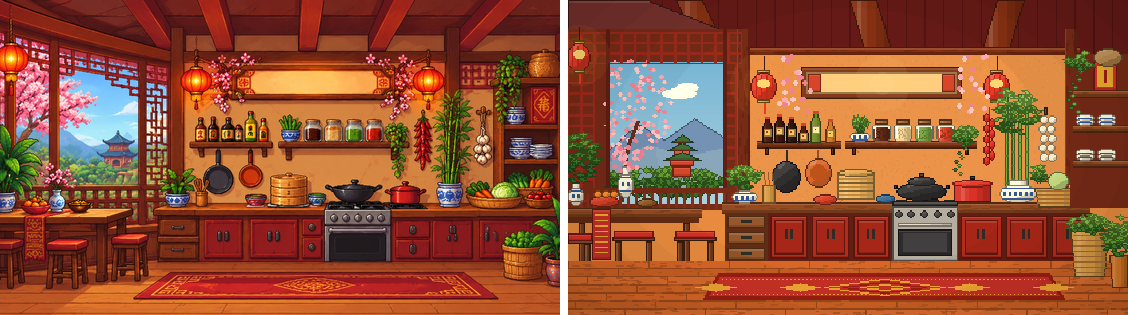
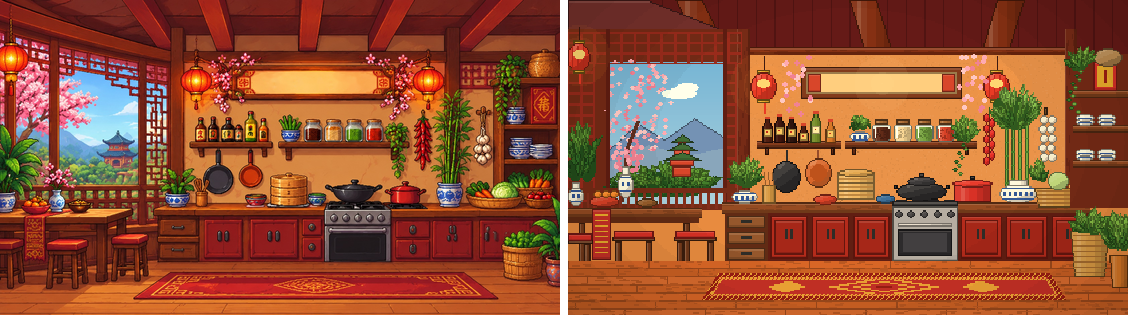
WIP kitchens: rug patterns stay on the rug, plants with leaf shapes; follow-ups for the next session in the planner
- concept_kitchens.py: rugs computed inside the rug's outline (no pattern on the floor); plants as a shaded mass
  with leaf shapes and midribs
- drafts/concept-kitchens/wip/: the next plant and rug version (fan of arching leaves, patterned field), not applied
- docs/plans/README.md: the bug report's four fixes awaiting a choice; the agreed per-object tracing approach

diff --git a/design/pixel-art/concept_kitchens.py b/design/pixel-art/concept_kitchens.py
@@ -77,32 +77,37 @@ def planks(a: Art, x0: int, y0: int, x1: int, y1: int, base: str, horizontal: bo
 
 def rug(a: Art, top: tuple[int, int], bottom: tuple[int, int], y0: int, y1: int, base: str, border: str, motif: str,
         fringe: bool = False) -> None:
-    """A floor rug in perspective (narrower at the back), with a border band and a diamond medallion."""
+    """A floor rug in perspective (narrower at the back). Every pixel is worked out from where it sits inside the rug
+    (u across, v down, both 0 to 1), so the pattern always stays on the rug and scales with it: a border band with a
+    zigzag, a thin inner line, a nested diamond medallion and a smaller diamond on each side."""
     def edge(y: int) -> tuple[int, int]:
-        t = (y - y0) / max(1, y1 - y0)
+        t = (y - y0) / max(1, y1 - y0 - 1)
         return round(top[0] + (bottom[0] - top[0]) * t), round(top[1] + (bottom[1] - top[1]) * t)
+    height = y1 - y0
     for y in range(y0, y1):
         lx, rx = edge(y)
-        a.box(lx, y, rx - lx, 1, base)
-        a.box(lx, y, 3, 1, border)
-        a.box(rx - 3, y, 3, 1, border)
-    for y in (y0, y0 + 1, y0 + 2, y1 - 3, y1 - 2, y1 - 1):
-        lx, rx = edge(y)
-        a.box(lx, y, rx - lx, 1, border)
-    for y in (y0 + 4, y1 - 5):                                       # a thin inner line with a dotted pattern
-        lx, rx = edge(y)
-        for x in range(lx + 5, rx - 5, 3):
-            a.put(x, y, motif)
-    cx, cy = (top[0] + top[1] + bottom[0] + bottom[1]) // 4, (y0 + y1) // 2
-    hw, hh = (bottom[1] - bottom[0]) // 6, (y1 - y0) // 2 - 4
-    for k, scale in enumerate((1.0, 0.7, 0.4)):
-        pts = [(cx, cy - int(hh * scale)), (cx + int(hw * scale), cy), (cx, cy + int(hh * scale)), (cx - int(hw * scale), cy)]
-        a.shape(lambda d, pts=pts: d.polygon(pts, outline=255), motif if k != 1 else border, "plain", 0)
-    for sx in (-1, 1):                                                # side diamonds
-        for k in range(1, 3):
-            dx = cx + sx * k * hw * 1.4
-            pts = [(dx, cy - hh // 2), (dx + hw // 3, cy), (dx, cy + hh // 2), (dx - hw // 3, cy)]
-            a.shape(lambda d, pts=pts: d.polygon(pts, fill=255), motif, "plain", 0)
+        width = rx - lx
+        v = (y - y0) / max(1, height - 1)
+        for x in range(lx, rx):
+            u = (x - lx) / max(1, width - 1)
+            bu, bv = 4 / max(1, width), 3 / max(1, height)            # the border is 4 px wide at the sides, 3 at the ends
+            col = base
+            if u < bu or u > 1 - bu or v < bv or v > 1 - bv:
+                col = border
+                along = x if (v < bv or v > 1 - bv) else y        # a zigzag running along the border
+                if (along + (y if v < bv or v > 1 - bv else x)) % 4 == 0:
+                    col = motif
+            elif u < bu + 2 / width or u > 1 - bu - 2 / width or v < bv + 2 / height or v > 1 - bv - 2 / height:
+                col = motif if (x + y) % 3 else base                # the dotted inner line
+            else:
+                du, dv = abs(u - 0.5) / 0.17, abs(v - 0.5) / 0.36    # the medallion: three nested diamond rings
+                ring = du + dv
+                if ring < 1:
+                    col = motif if ring > 0.82 or 0.45 < ring < 0.6 else border if ring < 0.2 else base
+                for side in (0.22, 0.78):                            # side diamonds
+                    if abs(u - side) / 0.06 + abs(v - 0.5) / 0.24 < 1:
+                        col = motif
+            a.put(x, y, col)
     if fringe:
         for y in (y0 - 1, y1):
             lx, rx = edge(min(max(y, y0), y1 - 1))
@@ -112,16 +117,35 @@ def rug(a: Art, top: tuple[int, int], bottom: tuple[int, int], y0: int, y1: int,
 
 def leaves(a: Art, cx: int, cy: int, w: int, h: int, greens: tuple[str, ...] = ("#3F7A2E", "#5E9B3A", "#7DB84A"),
            count: int = 40, leaf: tuple[int, int] = (7, 4)) -> None:
-    """A leafy bush: many small pointed leaves at random angles, darker below and lighter on top."""
-    for _ in range(int(count * 1.8)):
+    """A leafy plant: a dark mass for depth, then real leaf shapes pointing outward from the stem, each with a
+    midrib, drawn from the back (darker, lower) to the front (lighter, on top), so it reads as foliage."""
+    dark = tone(greens[0], 0.72)
+    for _ in range(5):                                                # the shaded mass behind the leaves
+        mw, mh = int(w * a.rand.uniform(0.45, 0.7)), int(h * a.rand.uniform(0.45, 0.7))
+        mx = cx + a.rand.randint(-w // 5, w // 5) - mw // 2
+        my = cy + a.rand.randint(-h // 6, h // 4) - mh // 2
+        a.ellipse(mx, my, mw, mh, dark, "plain", 0)
+    stem = (cx, cy + h * 0.45)
+    items = []
+    for _ in range(int(count * 1.4)):
         ang = a.rand.uniform(0, math.pi * 2)
-        rr = a.rand.random() ** 0.6
-        x, y = cx + math.cos(ang) * w / 2 * rr, cy + math.sin(ang) * h / 2 * rr
-        shade = greens[0] if y > cy + h / 6 else greens[-1] if y < cy - h / 6 else greens[len(greens) // 2]
-        lw, lh = leaf
-        tilt = a.rand.uniform(-1, 1)
-        pts = [(x - lw / 2, y + tilt * 2), (x, y - lh / 2), (x + lw / 2, y - tilt * 2), (x, y + lh / 2)]
-        a.shape(lambda d, pts=pts: d.polygon(pts, fill=255), shade, "plain", 0.62)
+        rr = a.rand.random() ** 0.5
+        x, y = cx + math.cos(ang) * w / 2 * rr * 0.8, cy + math.sin(ang) * h / 2 * rr * 0.8
+        dx, dy = x - stem[0], y - stem[1]
+        norm = math.hypot(dx, dy) or 1
+        dx, dy = dx / norm, dy / norm
+        length = leaf[0] * a.rand.uniform(0.8, 1.3)
+        width = leaf[1] * a.rand.uniform(0.8, 1.2)
+        items.append((y, (x, y), (x + dx * length, y + dy * length), (-dy, dx), width))
+    for y, base, tip, (px, py), width in sorted(items, key=lambda item: -item[0]):   # back (low) first, top last
+        t = (y - (cy - h / 2)) / max(1, h)
+        shade = greens[0] if t > 0.62 else greens[1] if t > 0.32 else greens[-1]
+        if a.rand.random() < 0.25:
+            shade = greens[min(len(greens) - 1, greens.index(shade) + 1)]
+        mid = ((base[0] + tip[0]) / 2, (base[1] + tip[1]) / 2)
+        pts = [base, (mid[0] + px * width / 2, mid[1] + py * width / 2), tip, (mid[0] - px * width / 2, mid[1] - py * width / 2)]
+        a.shape(lambda d, pts=pts: d.polygon(pts, fill=255), shade, "plain", 0.55)
+        a.line([(round(base[0]), round(base[1])), (round(tip[0]), round(tip[1]))], tone(shade, 0.78))
 
 
 def vine(a: Art, x: int, y: int, length: int, sway: float = 3, greens: tuple[str, str] = ("#3F7A2E", "#6FA846")) -> None:

diff --git a/design/pixel-art/drafts/concept-kitchens/wip/rug_plant_fix2.py b/design/pixel-art/drafts/concept-kitchens/wip/rug_plant_fix2.py
@@ -1,0 +1,107 @@
+from pathlib import Path
+
+p = Path("design/pixel-art/concept_kitchens.py")
+s = p.read_text(encoding="utf-8")
+start = s.index("def rug(a: Art, top: tuple[int, int], bottom: tuple[int, int]")
+end = s.index("def vine(a: Art, x: int, y: int, length: int")
+new = '''def rug(a: Art, top: tuple[int, int], bottom: tuple[int, int], y0: int, y1: int, base: str, border: str, motif: str,
+        fringe: bool = False, accent: str | None = None) -> None:
+    """A floor rug in perspective (narrower at the back). Every pixel is worked out from where it sits inside the rug
+    (u across, v down, both 0 to 1), so the pattern always stays on the rug and scales with it: a double border with a
+    running pattern, a field of small repeating diamonds, a nested medallion, and a diamond on each side."""
+    accent = accent or border
+    def edge(y: int) -> tuple[int, int]:
+        t = (y - y0) / max(1, y1 - y0 - 1)
+        return round(top[0] + (bottom[0] - top[0]) * t), round(top[1] + (bottom[1] - top[1]) * t)
+    height = y1 - y0
+    for y in range(y0, y1):
+        lx, rx = edge(y)
+        width = rx - lx
+        v = (y - y0) / max(1, height - 1)
+        for x in range(lx, rx):
+            u = (x - lx) / max(1, width - 1)
+            pu, pv = (x - lx), (y - y0)                                # rug-local pixels, for repeating patterns
+            in_u, in_v = min(pu, width - 1 - pu), min(pv, height - 1 - pv)   # distance to the rug's edges
+            ring = min(in_u, in_v * 1.4)
+            if ring < 2:
+                col = border
+            elif ring < 4:
+                col = motif if (pu + pv) % 4 < 2 else accent            # the running pattern in the border
+            elif ring < 5:
+                col = border
+            else:
+                col = base
+                if (pu % 8 + pv % 6 * 1.3) < 2.5 or (abs(pu % 8 - 4) + abs(pv % 6 - 3) * 1.3) < 1.6:
+                    col = tone(base, 0.82)                             # a field of small diamonds
+                du, dv = abs(u - 0.5) / 0.18, abs(v - 0.5) / 0.38
+                d = du + dv
+                if d < 1:                                              # the medallion: nested diamonds
+                    col = motif if d > 0.8 else accent if d > 0.62 else base if d > 0.42 else motif if d > 0.24 else border
+                for side in (0.2, 0.8):
+                    ds = abs(u - side) / 0.07 + abs(v - 0.5) / 0.3
+                    if ds < 1:
+                        col = accent if ds < 0.5 else motif
+            a.put(x, y, col)
+    if fringe:
+        for y in (y0 - 1, y1):
+            lx, rx = edge(min(max(y, y0), y1 - 1))
+            for x in range(lx, rx, 2):
+                a.put(x, y, "#F1E6CF")
+
+
+def leaves(a: Art, cx: int, cy: int, w: int, h: int, greens: tuple[str, ...] = ("#3F7A2E", "#5E9B3A", "#7DB84A"),
+           count: int = 40, leaf: tuple[int, int] = (7, 4)) -> None:
+    """Foliage. A wide, low area (trees seen through a window, a hedge) becomes rounded, shaded clumps; anything else
+    becomes a potted plant: a fan of long arching leaves from the stem, each widest a third of the way out, with a
+    vein, lighter on the upper side and drooping at the sides, as in the concept art."""
+    if w > 2.2 * h:                                                   # canopy: rounded clumps, back row first
+        for row in range(3):
+            for k in range(max(2, w // 8)):
+                bw = a.rand.randint(8, 14)
+                bx = cx - w // 2 + a.rand.randrange(max(1, w - bw))
+                by = cy - h // 2 + row * h // 3
+                a.ellipse(bx, by, bw, max(6, h // 2), greens[min(len(greens) - 1, row)], "sphere", 0.55)
+        return
+    stem = (cx, cy + h * 0.45)
+    reach = max(w, h) * 0.6
+    n = max(5, min(16, count // 3))
+    for k in range(n):
+        side = -1 if k % 2 else 1
+        spread = (k // 2) / max(1, n // 2)                          # 0 = upright, 1 = out to the side
+        ang = math.radians(90 + side * (10 + 75 * spread) + a.rand.uniform(-8, 8))
+        length = reach * a.rand.uniform(0.75, 1.05) * (1.0 - 0.15 * spread)
+        width = max(2.5, leaf[1] * 0.9 + reach * 0.09)
+        droop = 0.25 + 0.6 * spread
+        pts_l, pts_r, spine = [], [], []
+        for j in range(9):
+            t = j / 8
+            x = stem[0] + math.cos(ang) * length * t
+            y = stem[1] - math.sin(ang) * length * t + droop * length * t * t   # the leaf arches over
+            spine.append((x, y))
+        for j, (x, y) in enumerate(spine):
+            t = j / 8
+            half = width * (t / 0.35 if t < 0.35 else (1 - t) / 0.65) / 2
+            if j < 8:
+                nx, ny = spine[j + 1][0] - x, spine[j + 1][1] - y
+            else:
+                nx, ny = x - spine[j - 1][0], y - spine[j - 1][1]
+            norm = math.hypot(nx, ny) or 1
+            px, py = -ny / norm, nx / norm
+            pts_l.append((x + px * half, y + py * half))
+            pts_r.append((x - px * half, y - py * half))
+        outline = pts_l + list(reversed(pts_r))
+        shade = greens[-1] if spread < 0.34 else greens[1] if spread < 0.7 else greens[0]
+        a.shape(lambda d, outline=outline: d.polygon(outline, fill=255), shade, "plain", 0.55)
+        a.shape(lambda d, pts_l=pts_l: d.line(pts_l[1:-1], fill=255), tone(shade, 1.18), "plain", 0)   # lit edge
+        a.line([(round(x), round(y)) for x, y in spine[1:-1]], tone(shade, 0.75))                        # the vein
+
+
+'''
+s = s[:start] + new + s[end:]
+# A second colour in the rugs that have one in the originals
+s = s.replace('''    rug(a, (198, 350), (192, 356), 202, 227, "#C8392A", "#8E2414", "#3FA34D", fringe=True)''',
+              '''    rug(a, (198, 350), (192, 356), 202, 227, "#C8392A", "#8E2414", "#F2C14E", fringe=True, accent="#2F6DB5")''')
+s = s.replace('''    rug(a, (112, 350), (107, 355), 201, 231, "#C8392A", "#2F4F8C", "#F2C14E", fringe=True)''',
+              '''    rug(a, (112, 350), (107, 355), 201, 231, "#C8392A", "#2F4F8C", "#F2C14E", fringe=True, accent="#2F6DB5")''')
+p.write_text(s, encoding="utf-8", newline="\n")
+print("ok")

diff --git a/docs/plans/README.md b/docs/plans/README.md
@@ -61,6 +61,19 @@ Everything we are working on or have agreed to do next, in one place. Owners are
 | 10 | **Freshness per-source check:** Fish Eyes FFE photos score 0.76 against 0.97 for the other fish source | [RELIABILITY.md](RELIABILITY.md#3-the-ai-models) | | planned |
 | 11 | **Housekeeping:** move the Foundry agent folder (`my-agent-n6agvd/`) out of the repository folder | | med27-coder | to do |
 
+### Follow-up for the next session (2026-10-22)
+
+1. **Bug report** (`EverFlavor_AI_Kitchen_Bug_Report.pdf`, the live demo site): four bugs analysed, fixes proposed,
+   waiting for the team's choice. Same recipes every time (sorting by calorie distance only: add variety, memory of
+   shown recipes, rename "Other"); wrong cuisines (the demo data's own site tags: run it through notebook 01's
+   country logic, drop conflicts, show the country); Food Network logo photos (find shared pictures by fingerprint);
+   "N/A minutes" (the demo data has no time column: hide unknown times, bring times from the full data).
+2. **Concept kitchens** (`design/pixel-art/concept_kitchens.py`): the four full kitchens drawn in code; rugs now
+   stay on the rug. Still wrong: plants (a fan-of-leaves version is in `drafts/concept-kitchens/wip/`), rug
+   patterns, perspective (the window sits flat instead of on the side wall), chairs. **Next approach (agreed):**
+   isolate each object in the original, trace its outline and pixels at its real angle, then assemble the objects
+   into the final kitchen (`design/pixel-art/trace_kitchens.py`).
+
 ### Later (1.0 and after)
 
 Hosting and a landing page; My cookbook and sharing; the chef chat tab (`llm.ask_agent`); the meal planner in the
